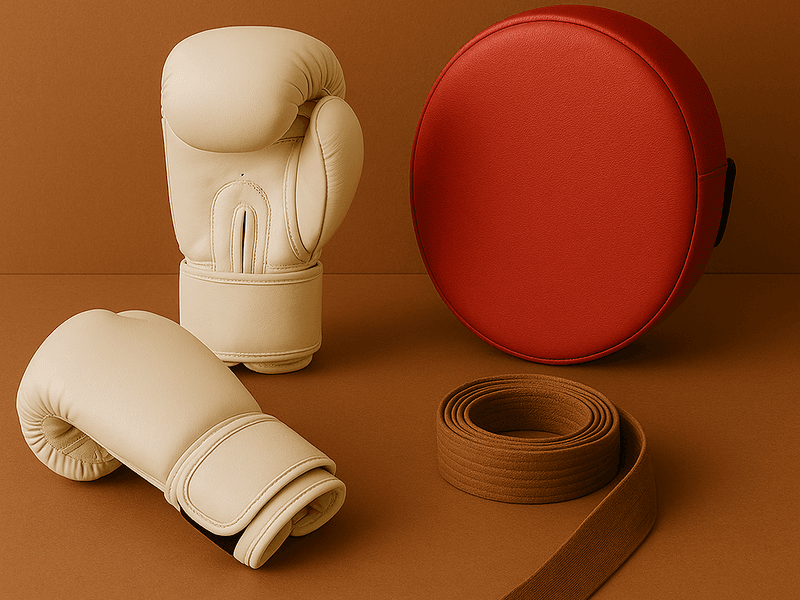
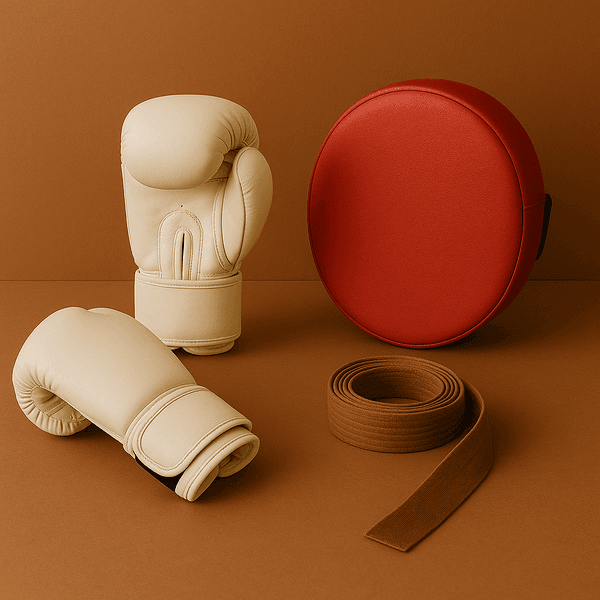
Optimize class images: Reduce file sizes by 90-93% while maintaining quality

diff --git a/scripts/optimize-images.js b/scripts/optimize-images.js
@@ -10,41 +10,34 @@ if (!fs.existsSync(outputDir)) {
   fs.mkdirSync(outputDir, { recursive: true });
 }
 
-// Get all PNG files from the input directory
+// Get all PNG files from input directory
 const files = fs.readdirSync(inputDir).filter(file => file.endsWith('.png'));
 
 async function optimizeImages() {
   for (const file of files) {
     const inputPath = path.join(inputDir, file);
     const outputPath = path.join(outputDir, file);
-
+    
     try {
-      // Get the original file size
+      // Get original file size
       const stats = fs.statSync(inputPath);
-      const originalSize = stats.size;
-
-      // Optimize the image
+      const originalSize = stats.size / 1024; // Convert to KB
+      
+      // Optimize image
       await sharp(inputPath)
-        .resize(800, 600, { // Resize to a reasonable size
-          fit: 'cover',
-          position: 'center'
-        })
-        .png({ // Convert to PNG with optimization
-          quality: 80,
-          compressionLevel: 9
-        })
+        .resize(800, 600, { fit: 'inside', withoutEnlargement: true })
+        .png({ quality: 80, compressionLevel: 9 })
         .toFile(outputPath);
-
-      // Get the optimized file size
+      
+      // Get optimized file size
       const optimizedStats = fs.statSync(outputPath);
-      const optimizedSize = optimizedStats.size;
-      const savings = ((originalSize - optimizedSize) / originalSize * 100).toFixed(2);
-
-      console.log(`${file}: ${(originalSize / 1024).toFixed(2)}KB -> ${(optimizedSize / 1024).toFixed(2)}KB (${savings}% smaller)`);
+      const optimizedSize = optimizedStats.size / 1024; // Convert to KB
+      
+      console.log(`${file}: ${originalSize.toFixed(2)}KB -> ${optimizedSize.toFixed(2)}KB (${((1 - optimizedSize/originalSize) * 100).toFixed(2)}% smaller)`);
     } catch (error) {
       console.error(`Error processing ${file}:`, error);
     }
   }
 }
 
-optimizeImages().catch(console.error); 
+optimizeImages(); 
